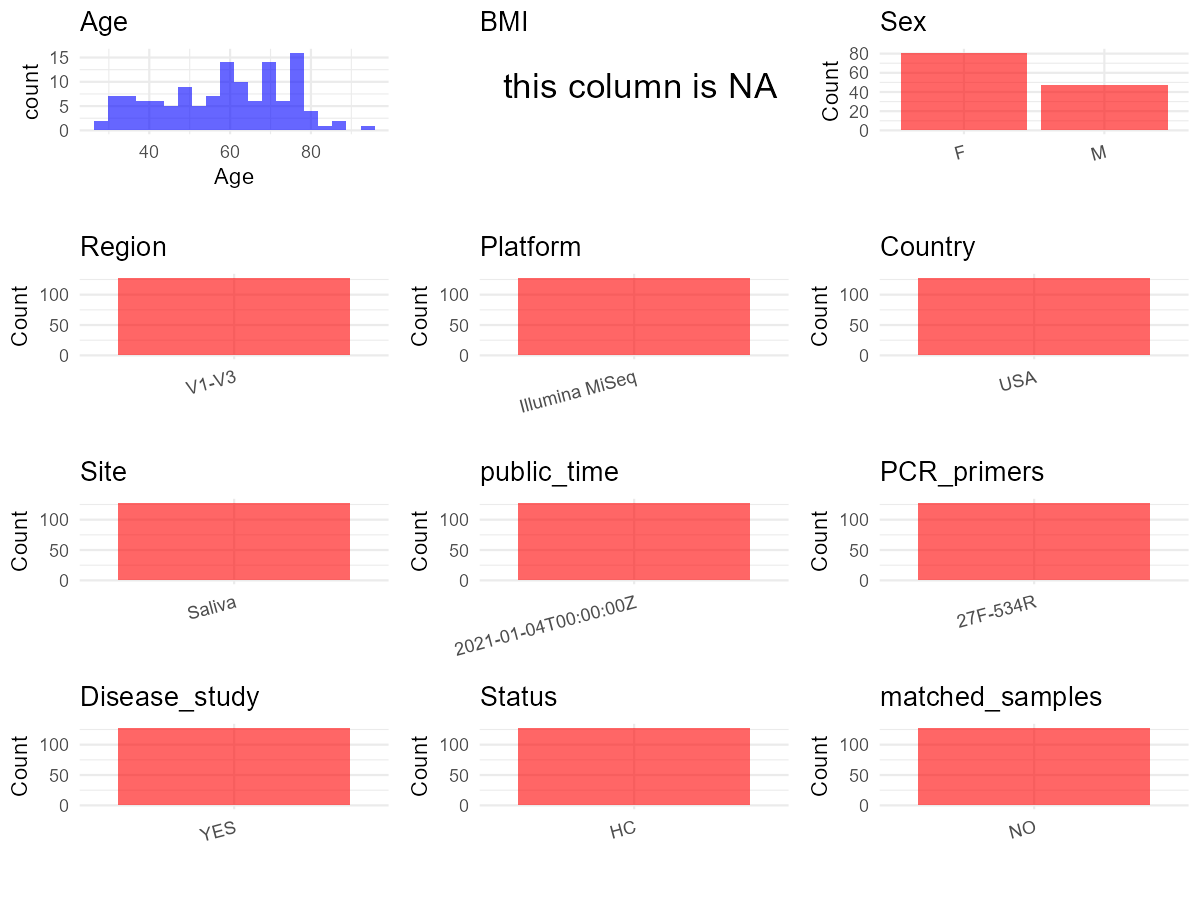
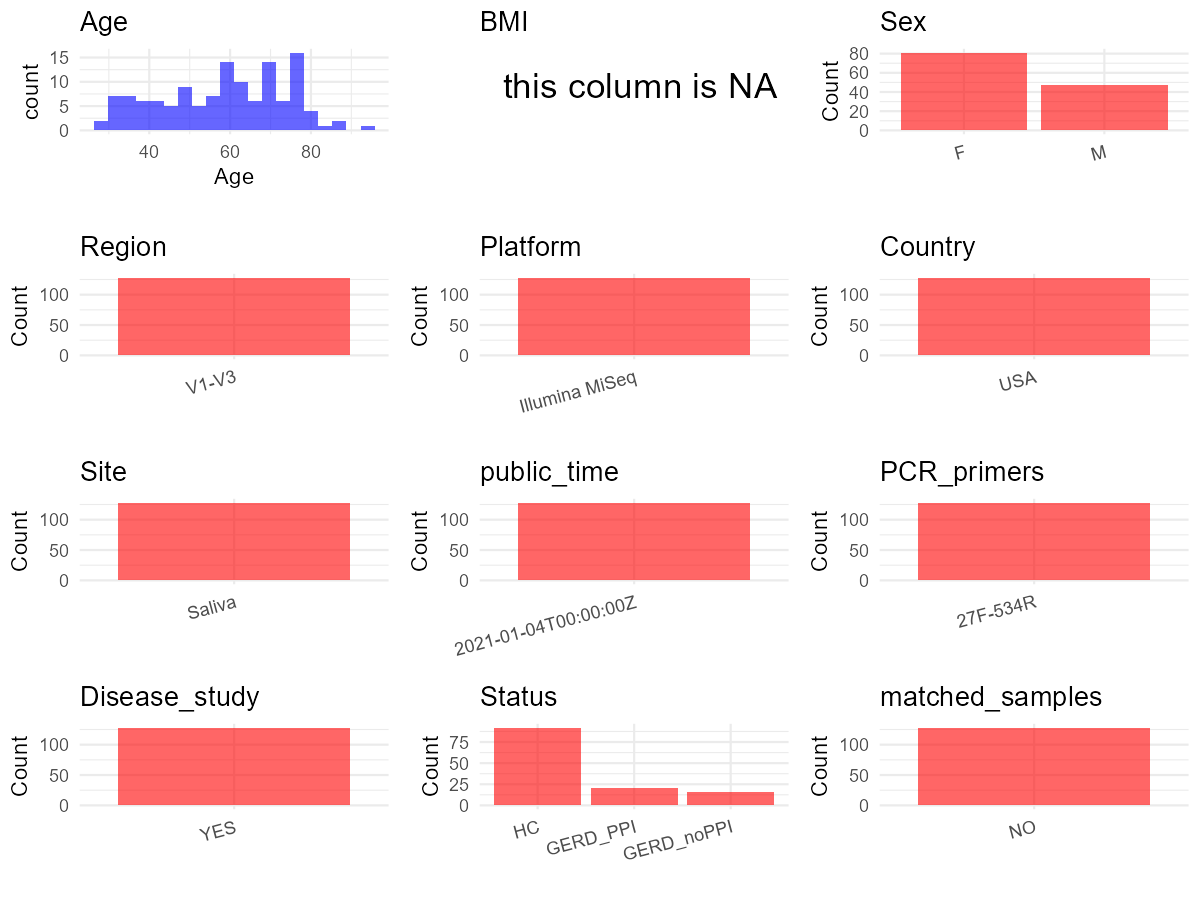
upload files for PRJNA674379

diff --git a/data/projects/PRJNA674379/metadata_curation.md b/data/projects/PRJNA674379/metadata_curation.md
@@ -159,6 +159,9 @@ metadata <- data.frame(
   Country = initial_meta$geo_loc_name_country,
   Site = initial_meta$host_tissue_sampled,
   public_time = initial_meta$ReleaseDate,
+  proton_pump_inhbitor_drug_use = initial_meta$proton_pump_inhbitor_drug_use,
+  host_disease = initial_meta$host_disease,
+  edentulous = initial_meta$edentulous,
   stringsAsFactors = FALSE
 )
 ```
@@ -181,10 +184,18 @@ manually extracted from the publication and added to the metadata.
 ``` r
 # Add information obtained from the publication
 metadata$PCR_primers <- "27F-534R"
-metadata$title <- "A Correlation Study of the Microbiota Between Oral Cavity and Tonsils in Children With Tonsillar Hypertrophy"
+metadata$title <- "Old age and other factors associated with salivary microbiome variation"
 metadata$Disease_study <- "YES"
 # Assign disease status based on sample_name patterns
-metadata$Status<-"HC"
+metadata <- metadata %>%
+  mutate(Status = case_when(
+  host_disease == "CON" | host_disease == "Control" ~ "HC",
+  host_disease == "GERD" & proton_pump_inhbitor_drug_use == "PPI" ~ "GERD_PPI",
+  host_disease == "GERD" ~ "GERD_noPPI",
+  edentulous == "Yes" ~ "Edentulous",
+  TRUE ~ "NA"
+  )) %>%
+  select(-host_disease, -proton_pump_inhbitor_drug_use,-edentulous)  # 移除临时列
 
 #get subjects id according to sample id
 metadata$sample_name<-gsub("Guy|Rahe","",metadata$sample_name)
@@ -250,20 +261,20 @@ head(metadata)
     ## 4     USA Saliva 2021-01-04T00:00:00Z    27F-534R
     ## 5     USA Saliva 2021-01-04T00:00:00Z    27F-534R
     ## 6     USA Saliva 2021-01-04T00:00:00Z    27F-534R
-    ##                                                                                                          title
-    ## 1 A Correlation Study of the Microbiota Between Oral Cavity and Tonsils in Children With Tonsillar Hypertrophy
-    ## 2 A Correlation Study of the Microbiota Between Oral Cavity and Tonsils in Children With Tonsillar Hypertrophy
-    ## 3 A Correlation Study of the Microbiota Between Oral Cavity and Tonsils in Children With Tonsillar Hypertrophy
-    ## 4 A Correlation Study of the Microbiota Between Oral Cavity and Tonsils in Children With Tonsillar Hypertrophy
-    ## 5 A Correlation Study of the Microbiota Between Oral Cavity and Tonsils in Children With Tonsillar Hypertrophy
-    ## 6 A Correlation Study of the Microbiota Between Oral Cavity and Tonsils in Children With Tonsillar Hypertrophy
-    ##   Disease_study Status matched_samples
-    ## 1           YES     HC              NO
-    ## 2           YES     HC              NO
-    ## 3           YES     HC              NO
-    ## 4           YES     HC              NO
-    ## 5           YES     HC              NO
-    ## 6           YES     HC              NO
+    ##                                                                     title
+    ## 1 Old age and other factors associated with salivary microbiome variation
+    ## 2 Old age and other factors associated with salivary microbiome variation
+    ## 3 Old age and other factors associated with salivary microbiome variation
+    ## 4 Old age and other factors associated with salivary microbiome variation
+    ## 5 Old age and other factors associated with salivary microbiome variation
+    ## 6 Old age and other factors associated with salivary microbiome variation
+    ##   Disease_study     Status matched_samples
+    ## 1           YES         HC              NO
+    ## 2           YES         HC              NO
+    ## 3           YES         HC              NO
+    ## 4           YES         HC              NO
+    ## 5           YES   GERD_PPI              NO
+    ## 6           YES GERD_noPPI              NO
 
 ## Notes for Students:
 
